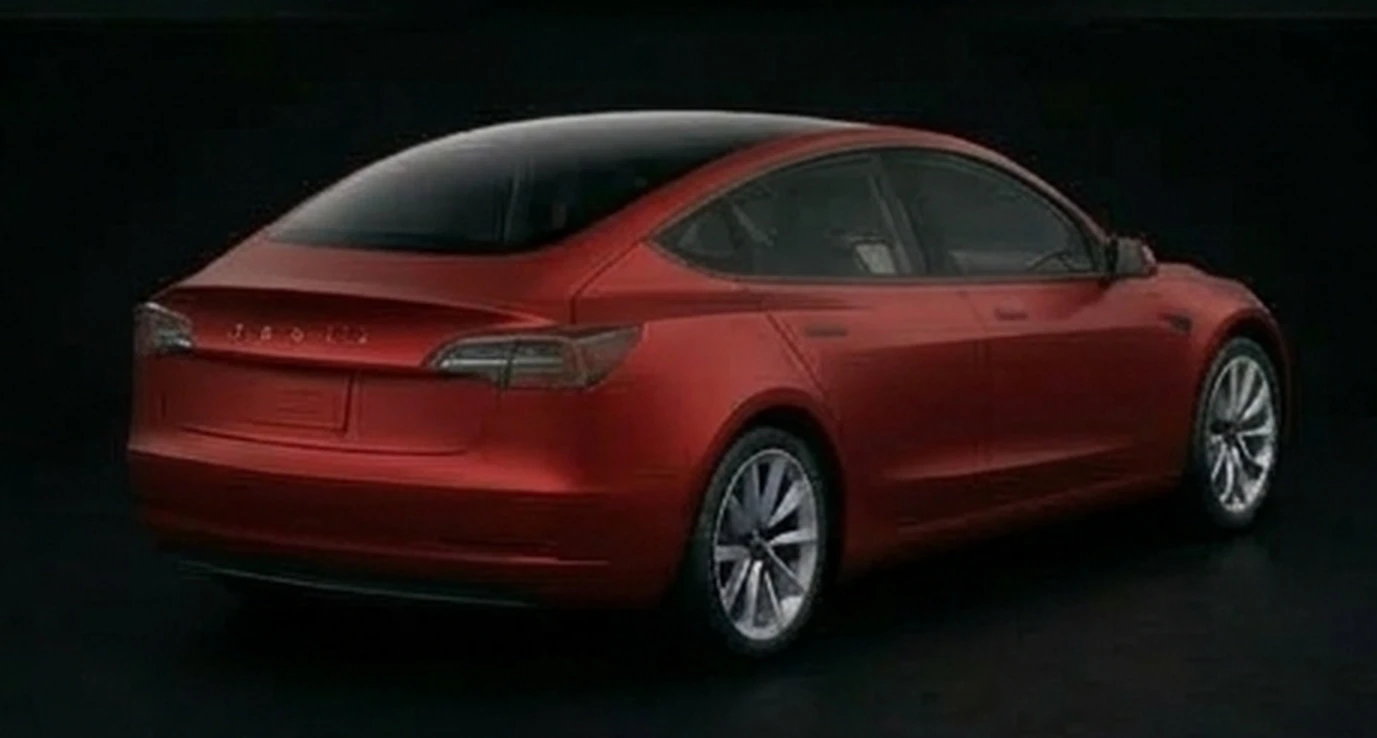
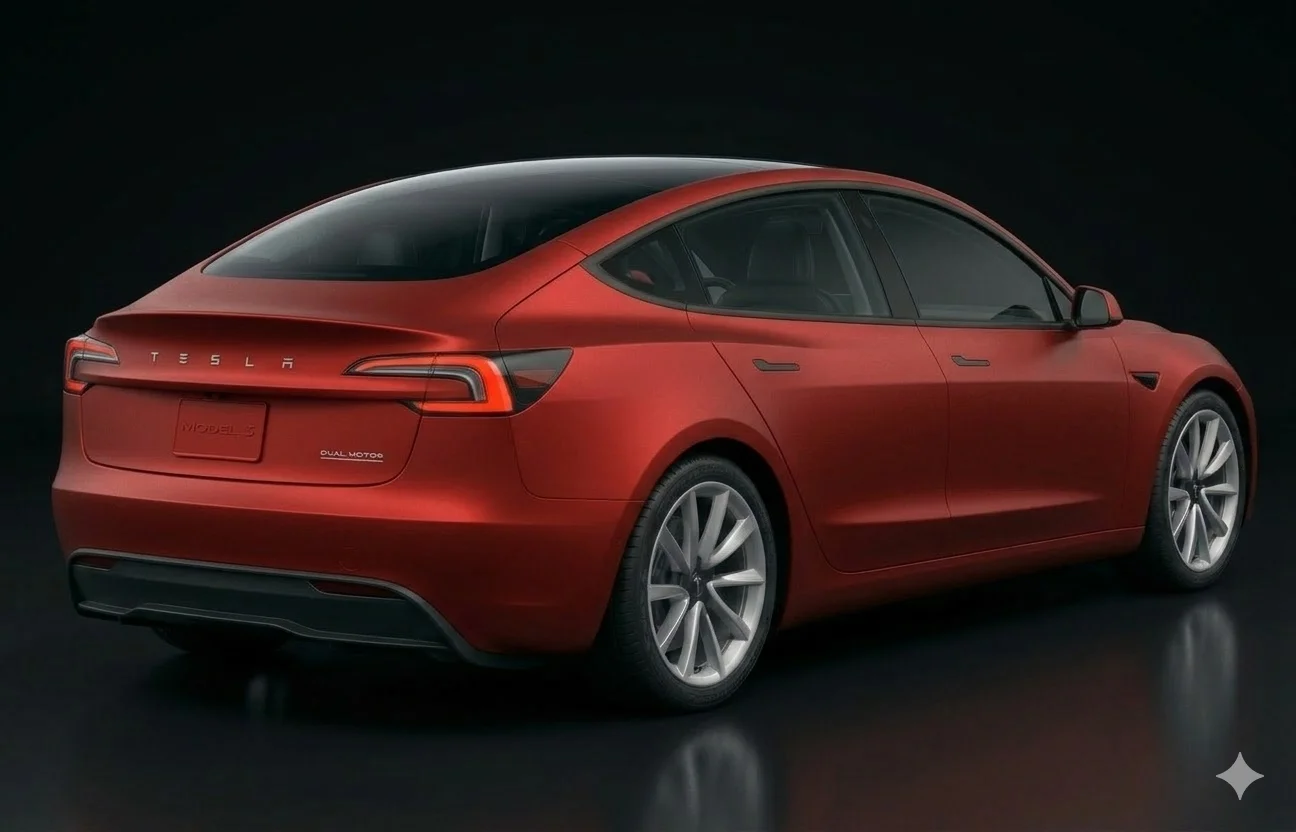
Replace matte red images with higher quality renders and add front view
Swapped rear 3/4 and rear straight angles with new Gemini-generated
renders, and added a 6th front straight-on angle to the matte red
carousel.

diff --git a/index.html b/index.html
@@ -74,7 +74,7 @@ h1 { font-size: 22px; font-weight: 500; margin-bottom: 4px; }
 const COLORS = [
   {name:'Pearl white', hex:'#ffffff'},
   {name:'Matte black', hex:'#0a0a0a', images:['./images/matte-black-1.webp','./images/matte-black-2.webp','./images/matte-black-3.webp','./images/matte-black-4.webp','./images/matte-black-5.webp']},
-  {name:'Matte red', hex:'#c0201e', images:['./images/matte-red-1.webp','./images/matte-red-2.webp','./images/matte-red-3.webp','./images/matte-red-4.webp','./images/matte-red-5.webp']},
+  {name:'Matte red', hex:'#c0201e', images:['./images/matte-red-1.webp','./images/matte-red-6.webp','./images/matte-red-2.webp','./images/matte-red-3.webp','./images/matte-red-4.webp','./images/matte-red-5.webp']},
   {name:'Sunflower', hex:'#d4a017'},
   {name:'Ocean blue', hex:'#1a3a8a'},
   {name:'British green', hex:'#2a5a3a'},